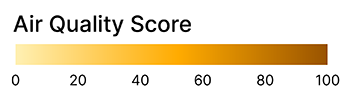
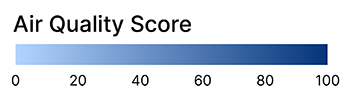
updated color schema, and moved shared assests to lib map

diff --git a/src/components/MapGeoJsonComponentProvince.jsx b/src/components/MapGeoJsonComponentProvince.jsx
@@ -1,73 +1,11 @@
 "use client";
 import { scatterViewType } from "@/lib/atoms";
+import { MAP_COLORS, urlToScoreMatching } from "@/lib/map";
 import { getProvinceId } from "@/lib/utils";
 import { useAtom } from "jotai";
 import { useParams, useRouter, useSearchParams } from "next/navigation";
 import { useEffect, useState } from "react";
 import { GeoJSON } from "react-leaflet";
-
-// ** note **
-// it is important that the top range comes first: this helps the getFeatureFillColor function work
-const MAP_COLORS = {
-  forest: [
-    { range: 80, color: "#015B6B" },
-    { range: 70, color: "#008DA6" },
-    { range: 60, color: "#00A3BF" },
-    { range: 50, color: "#00B8D9" },
-    { range: 40, color: "#00C7E6" },
-    { range: 30, color: "#5BD4E7" },
-    { range: 20, color: "#A5EFFA" },
-    { range: 0, color: "#E6FCFF" },
-  ],
-  temp: [
-    { range: 80, color: "#995300" },
-    { range: 70, color: "#FF8B00" },
-    { range: 60, color: "#FF991F" },
-    { range: 50, color: "#FFAB00" },
-    { range: 40, color: "#FFC400" },
-    { range: 30, color: "#FFE380" },
-    { range: 20, color: "#FFF0B3" },
-    { range: 0, color: "#FFFAE6" },
-  ],
-  air: [
-    { range: 80, color: "#06347A" },
-    { range: 70, color: "#0747A6" },
-    { range: 60, color: "#0052CC" },
-    { range: 50, color: "#0065FF" },
-    { range: 40, color: "#2684FF" },
-    { range: 30, color: "#4C9AFF" },
-    { range: 20, color: "#B3D4FF" },
-    { range: 0, color: "#DEEBFF" },
-  ],
-  econ: [
-    { color: "#4C223E", range: 80 },
-    { color: "#72335D", range: 70 },
-    { color: "#914176", range: 60 },
-    { color: "#BF569C", range: 50 },
-    { color: "#CE7EB3", range: 40 },
-    { color: "#E2B4D3", range: 30 },
-    { color: "#F2DDEB", range: 20 },
-    { color: "#F9F1F7", range: 0 },
-  ],
-  envr: [
-    { color: "#003300", range: 80 },
-    { color: "#006644", range: 70 },
-    { color: "#00875A", range: 60 },
-    { color: "#36B37E", range: 50 },
-    { color: "#57D9A3", range: 40 },
-    { color: "#79F2C0", range: 30 },
-    { color: "#ABF5D1", range: 20 },
-    { color: "#E3FCEF", range: 0 },
-  ],
-};
-
-const urlToScoreMatching = {
-  econ: "ECON_SCORE",
-  envr: "ENVR_SCORE",
-  air: "AIR_SCORE",
-  forest: "FOREST_SCORE",
-  temp: "TEMP_SCORE",
-};
 
 function getFeatureFillColor(scoreType, scoreValue) {
   const mapColors = MAP_COLORS[scoreType];

diff --git a/src/components/MapGeoJsonComponentDistrict.jsx b/src/components/MapGeoJsonComponentDistrict.jsx
@@ -1,70 +1,10 @@
 "use client";
-import { scatterViewType } from "@/lib/atoms";
+
+import { MAP_COLORS, urlToScoreMatching } from "@/lib/map";
 import { getProvinceId } from "@/lib/utils";
-import { useAtom } from "jotai";
 import { useParams, useRouter, useSearchParams } from "next/navigation";
 import { useEffect, useState } from "react";
 import { GeoJSON } from "react-leaflet";
-
-const MAP_COLORS = {
-  air: [
-    { range: 80, color: "#015B6B" },
-    { range: 70, color: "#008DA6" },
-    { range: 60, color: "#00A3BF" },
-    { range: 50, color: "#00B8D9" },
-    { range: 40, color: "#00C7E6" },
-    { range: 30, color: "#33D1EC" },
-    { range: 20, color: "#66DBF2" },
-    { range: 0, color: "#99E5F8" },
-  ],
-  temp: [
-    { range: 80, color: "#980108" },
-    { range: 70, color: "#BF000A" },
-    { range: 60, color: "#DE0B16" },
-    { range: 50, color: "#FF303A" },
-    { range: 40, color: "#FF525B" },
-    { range: 30, color: "#FF737A" },
-    { range: 20, color: "#FFADB1" },
-    { range: 0, color: "#FFE6E7" },
-  ],
-  forest: [
-    { range: 80, color: "#D97600" },
-    { range: 70, color: "#FF8B00" },
-    { range: 60, color: "#FF991F" },
-    { range: 50, color: "#FFAB00" },
-    { range: 40, color: "#FFC400" },
-    { range: 30, color: "#FFD260" },
-    { range: 20, color: "#FFE0A0" },
-    { range: 0, color: "#FFF0E0" },
-  ],
-  econ: [
-    { color: "#2C245E", range: 80 },
-    { color: "#403294", range: 70 },
-    { color: "#5243AA", range: 60 },
-    { color: "#6554C0", range: 50 },
-    { color: "#8777D9", range: 40 },
-    { color: "#998DD9", range: 30 },
-    { color: "#C0B6F2", range: 20 },
-    { color: "#EAE6FF", range: 0 },
-  ],
-  envr: [
-    { color: "#003300", range: 80 },
-    { color: "#006600", range: 70 },
-    { color: "#009900", range: 60 },
-    { color: "#00CC00", range: 50 },
-    { color: "#33FF33", range: 40 },
-    { color: "#66FF66", range: 30 },
-    { color: "#99FF99", range: 20 },
-    { color: "#CCFFCC", range: 0 },
-  ],
-};
-const urlToScoreMatching = {
-  econ: "ECON_SCORE",
-  envr: "ENVR_SCORE",
-  air: "AIR_SCORE",
-  forest: "FOREST_SCORE",
-  temp: "TEMP_SCORE",
-};
 
 function getFeatureFillColor(scoreType, scoreValue) {
   const mapColors = MAP_COLORS[scoreType];

diff --git a/src/lib/map/index.js b/src/lib/map/index.js
@@ -1,0 +1,63 @@
+// COLOR SCHEMA
+// Its important to note that range is decending order - this is for the function to determine range
+export const MAP_COLORS = {
+  forest: [
+    { range: 80, color: "#015B6B" },
+    { range: 70, color: "#008DA6" },
+    { range: 60, color: "#00A3BF" },
+    { range: 50, color: "#00B8D9" },
+    { range: 40, color: "#00C7E6" },
+    { range: 30, color: "#5BD4E7" },
+    { range: 20, color: "#A5EFFA" },
+    { range: 0, color: "#E6FCFF" },
+  ],
+  temp: [
+    { range: 80, color: "#995300" },
+    { range: 70, color: "#FF8B00" },
+    { range: 60, color: "#FF991F" },
+    { range: 50, color: "#FFAB00" },
+    { range: 40, color: "#FFC400" },
+    { range: 30, color: "#FFE380" },
+    { range: 20, color: "#FFF0B3" },
+    { range: 0, color: "#FFFAE6" },
+  ],
+  air: [
+    { range: 80, color: "#06347A" },
+    { range: 70, color: "#0747A6" },
+    { range: 60, color: "#0052CC" },
+    { range: 50, color: "#0065FF" },
+    { range: 40, color: "#2684FF" },
+    { range: 30, color: "#4C9AFF" },
+    { range: 20, color: "#B3D4FF" },
+    { range: 0, color: "#DEEBFF" },
+  ],
+  econ: [
+    { color: "#4C223E", range: 80 },
+    { color: "#72335D", range: 70 },
+    { color: "#914176", range: 60 },
+    { color: "#BF569C", range: 50 },
+    { color: "#CE7EB3", range: 40 },
+    { color: "#E2B4D3", range: 30 },
+    { color: "#F2DDEB", range: 20 },
+    { color: "#F9F1F7", range: 0 },
+  ],
+  envr: [
+    { color: "#003300", range: 80 },
+    { color: "#006644", range: 70 },
+    { color: "#00875A", range: 60 },
+    { color: "#36B37E", range: 50 },
+    { color: "#57D9A3", range: 40 },
+    { color: "#79F2C0", range: 30 },
+    { color: "#ABF5D1", range: 20 },
+    { color: "#E3FCEF", range: 0 },
+  ],
+};
+
+//
+export const urlToScoreMatching = {
+  econ: "ECON_SCORE",
+  envr: "ENVR_SCORE",
+  air: "AIR_SCORE",
+  forest: "FOREST_SCORE",
+  temp: "TEMP_SCORE",
+};
